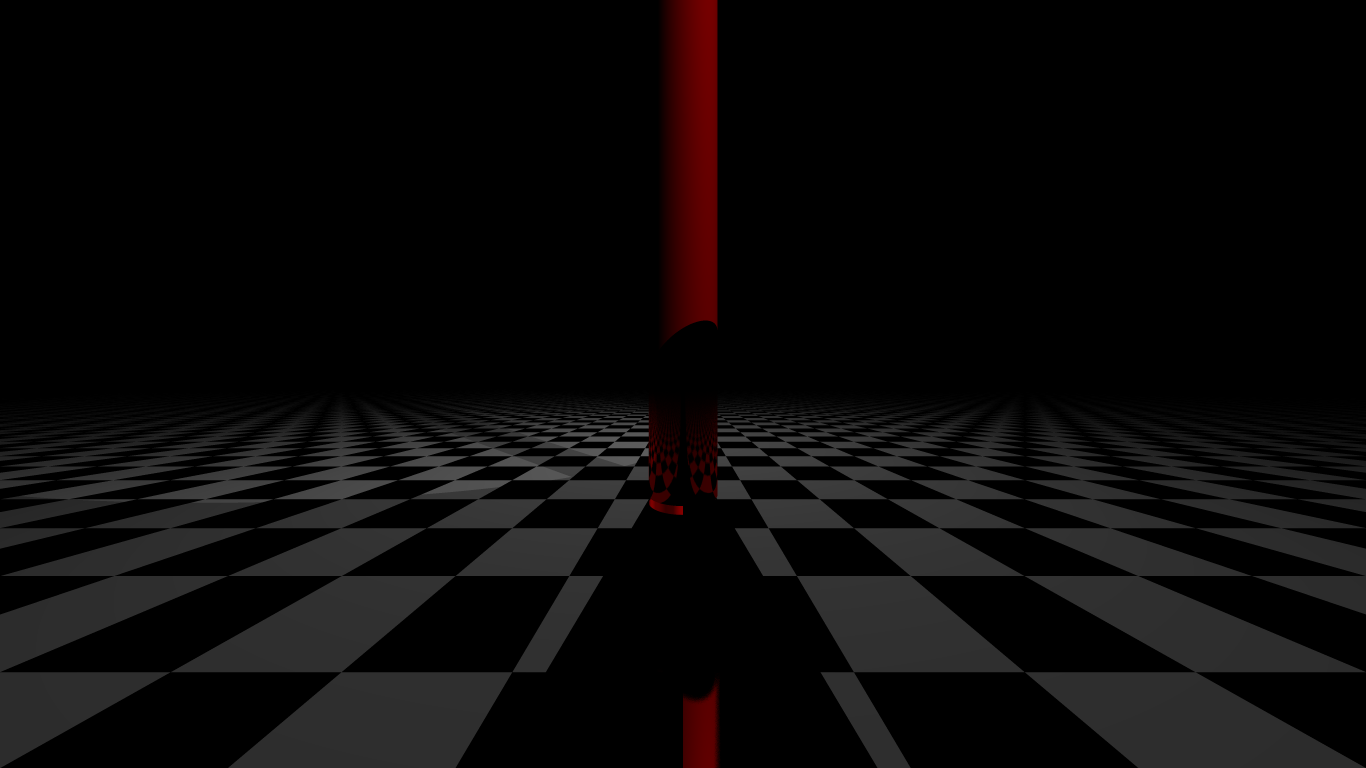
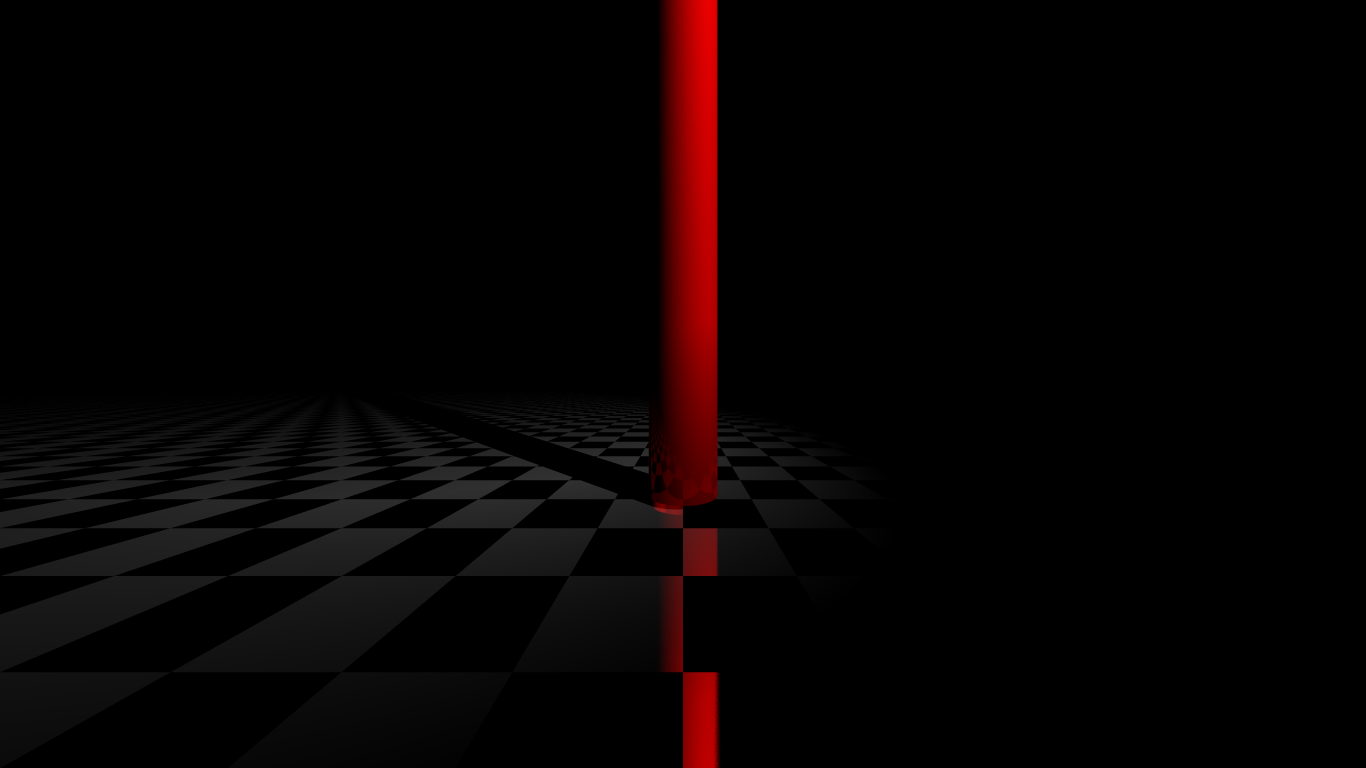
Lights: add diffuse_spot

diff --git a/src/raytracer/lights/diffuse_spot.rs b/src/raytracer/lights/diffuse_spot.rs
@@ -1,0 +1,47 @@
+use crate::raytracer::color::{Color, BLACK, WHITE};
+use crate::raytracer::lights::light::Light;
+use crate::raytracer::utils::vec::Vec3;
+
+pub struct DiffuseSpot {
+    pub color: Color,
+    pub position: Vec3,
+    pub direction: Vec3,
+    pub angle: f32,
+    pub max_angle: f32,
+    pub power: f32,
+}
+
+impl DiffuseSpot {
+    pub fn new(
+        color: Color, position: Vec3, direction: Vec3, angle: f32, max_angle: f32, power: f32,
+    ) -> DiffuseSpot {
+        DiffuseSpot {
+            color,
+            position,
+            direction: direction.normalized(),
+            angle: angle.to_radians(),
+            max_angle: max_angle.to_radians(),
+            power: power,
+        }
+    }
+}
+
+impl Light for DiffuseSpot {
+    fn get_positions(&self, rng: &mut rand::XorShiftRng) -> Vec<Vec3> {
+        vec![self.position]
+    }
+    fn get_color(&self, direction: &Vec3) -> Color {
+        let angle = (Vec3::dot(&self.direction, &direction) / direction.length())
+            .acos()
+            .abs();
+
+        if angle < self.angle {
+            self.color * self.power / (0.7 * direction.length() + 1.5 * direction.squared_length())
+        } else if angle < self.max_angle {
+            (self.max_angle - angle) / (self.max_angle - self.angle) * self.color * self.power
+                / (0.7 * direction.length() + 1.5 * direction.squared_length())
+        } else {
+            BLACK
+        }
+    }
+}

diff --git a/src/main.rs b/src/main.rs
@@ -7,6 +7,7 @@ use crate::raytracer::hittables::plane::Plane;
 use crate::raytracer::hittables::sphere::Sphere;
 use crate::raytracer::integrator::integrator::Integrator;
 use crate::raytracer::integrator::parallel_integrator::ParallelIntegrator;
+use crate::raytracer::lights::diffuse_spot::DiffuseSpot;
 use crate::raytracer::lights::omnidirectional::Omnidirectional;
 use crate::raytracer::lights::rectangle::Rectangle;
 use crate::raytracer::lights::spot::Spot;
@@ -161,7 +162,7 @@ fn main() {
         },
         power: 100.0,
     });
-    let light_spot = Arc::new(Spot::new(
+    let light_spot = Arc::new(DiffuseSpot::new(
         Color {
             r: 1.0,
             g: 1.0,
@@ -178,6 +179,7 @@ fn main() {
             z: -2.0,
         },
         20.0,
+        30.0,
         100.0,
     ));
     let light_omnidirectional_2 = Arc::new(Omnidirectional {
@@ -233,7 +235,7 @@ fn main() {
         Arc::new(plain_color),
     );
 
-    scene.add_light(light_omnidirectional);
+    //    scene.add_light(light_omnidirectional);
     scene.add_light(light_spot);
 
     let mut integrator = ParallelIntegrator::new(camera, scene);

diff --git a/src/raytracer/lights/mod.rs b/src/raytracer/lights/mod.rs
@@ -1,3 +1,4 @@
+pub mod diffuse_spot;
 pub mod light;
 pub mod omnidirectional;
 pub mod rectangle;
